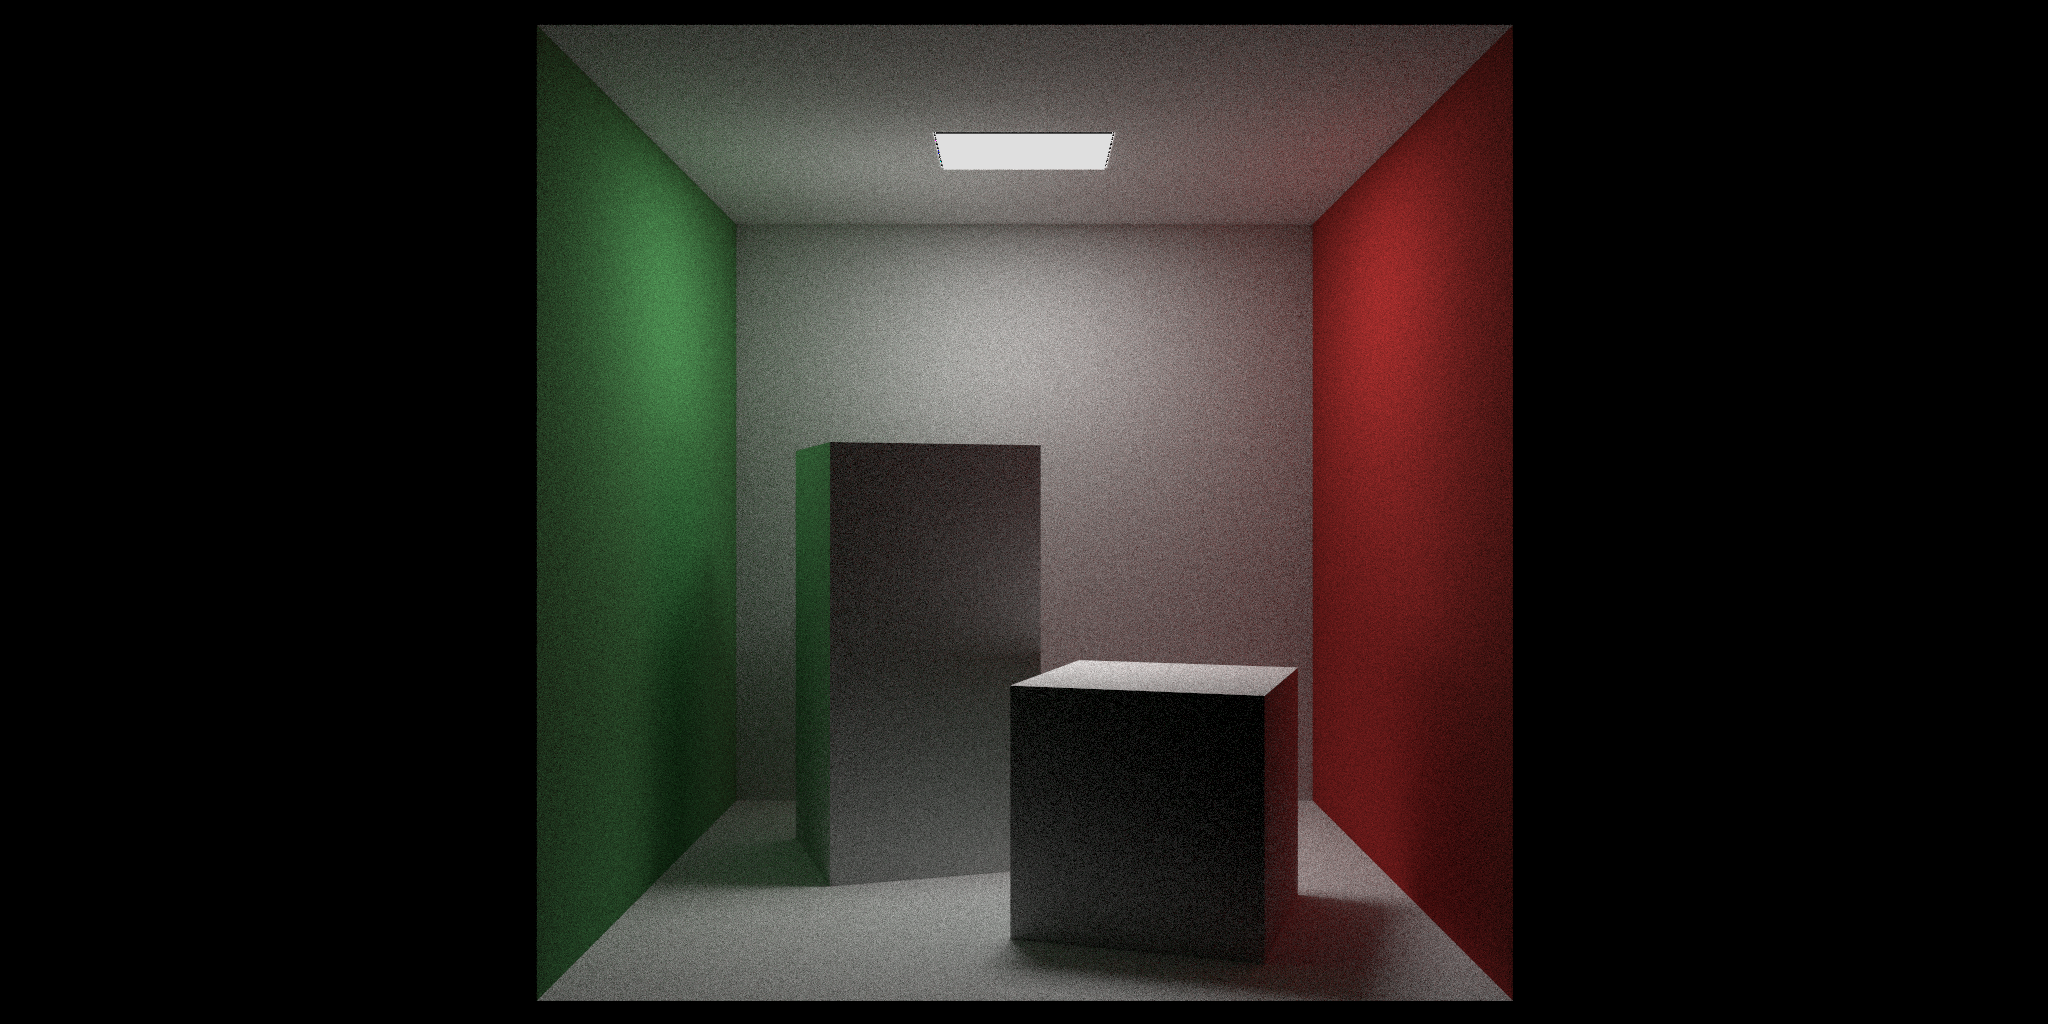
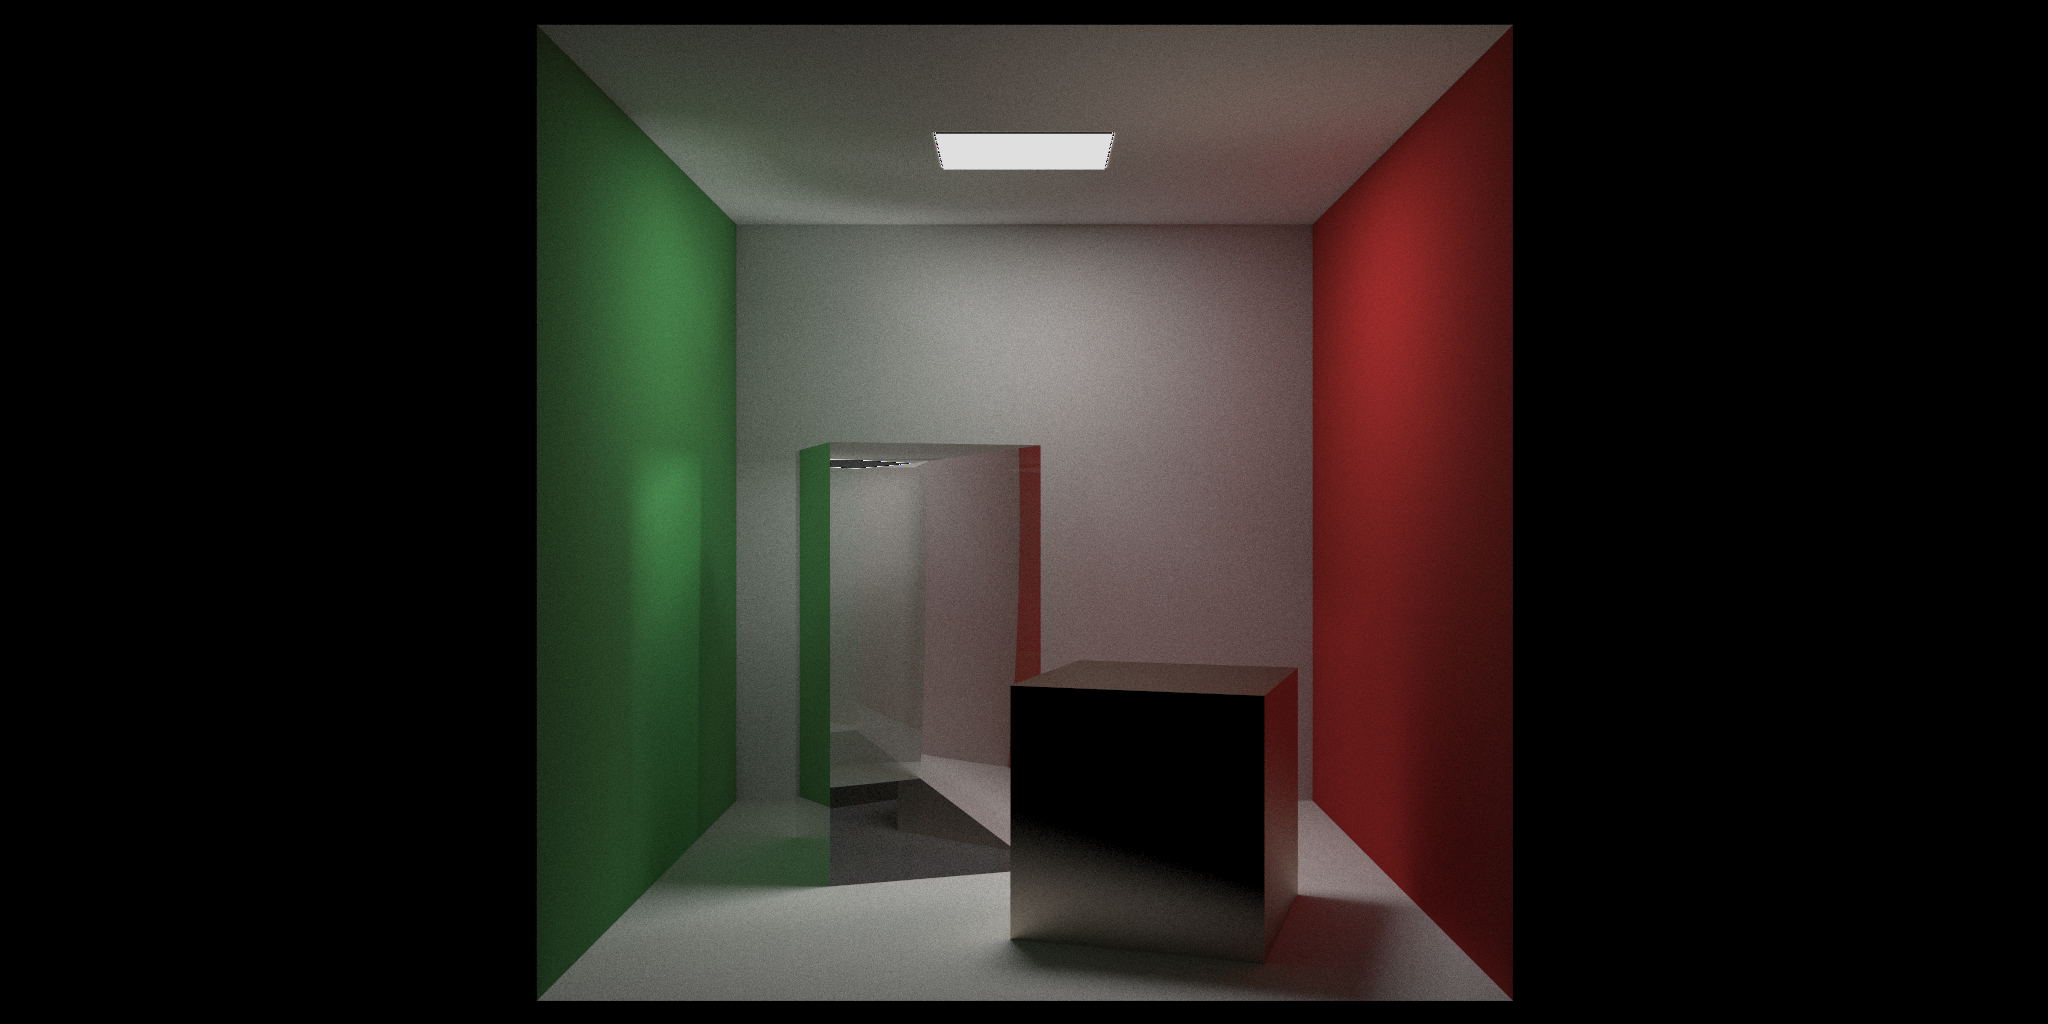
new image

Changed region(s): [[0.3125, 0.0312, 0.7188, 0.9375], [0.6875, 0.5, 0.7188, 0.5938], [0.3125, 0.3438, 0.3438, 0.375]]

diff --git a/cuda/scene.h b/cuda/scene.h
@@ -44,7 +44,7 @@ __device__ void random_scene(Hitable **list,
                                                     0.5f*rand(state)));
             }
             else {
-                list[i++] = new Sphere(center, 0.2, new Dielectric(1.5));
+                list[i++] = new Sphere(center, 0.2, new Dielectric(rand(state)*2));
             }
         }
     }
@@ -76,6 +76,9 @@ __device__ void cornell_box_scene(Hitable **list,
     Material* green = new   Lambertian(new ConstantTexture(vec3(0.12, 0.45, 0.15)));
     Material* light = new DiffuseLight(new ConstantTexture(vec3(  15,   15,   15)));
 
+    Material* diele = new Dielectric(0.5);
+    Material* metal = new Metal(vec3(0.7, 0.6, 0.5), 0.3);
+
     list[i++] = new FlipNormals(new RectangleYZ(  0, 555,   0, 555, 555, green));
     list[i++] =                (new RectangleYZ(  0, 555,   0, 555,   0,   red));
     list[i++] =                (new RectangleXZ(213, 343, 227, 332, 554, light));
@@ -83,36 +86,10 @@ __device__ void cornell_box_scene(Hitable **list,
     list[i++] =                (new RectangleXZ(  0, 555,   0, 555,   0, white));
     list[i++] = new FlipNormals(new RectangleXY(  0, 555,   0, 555, 555, white));
 
-    list[i++] = new Translate(new Rotate(new Box(vec3(0, 0, 0), vec3(165, 165, 165), white), -18), vec3(130, 0,  65));
-    list[i++] = new Translate(new Rotate(new Box(vec3(0, 0, 0), vec3(165, 330, 165), white),  18), vec3(265, 0, 295));
+    list[i++] = new Translate(new Rotate(new Box(vec3(0, 0, 0), vec3(165, 165, 165), metal), -18), vec3(130, 0,  65));
+    list[i++] = new Translate(new Rotate(new Box(vec3(0, 0, 0), vec3(165, 330, 165), diele),  18), vec3(265, 0, 295));
     
     *world = new HitableList(list, i);
-}
-
-
-__device__ void cornell_box_bvh_scene(Hitable **list, 
-                                      Hitable **world, 
-                                      curandState *state){
-    int i = 0;
-    Hitable** objlist = new Hitable*[10];
-
-    Material* red   = new   Lambertian(new ConstantTexture(vec3(0.65, 0.05, 0.05)));
-    Material* white = new   Lambertian(new ConstantTexture(vec3(0.73, 0.73, 0.73)));
-    Material* green = new   Lambertian(new ConstantTexture(vec3(0.12, 0.45, 0.15)));
-    Material* light = new DiffuseLight(new ConstantTexture(vec3(  15,   15,   15)));
-
-    objlist[i++] = new FlipNormals(new RectangleYZ(  0, 555,   0, 555, 555, green));
-    objlist[i++] =                (new RectangleYZ(  0, 555,   0, 555,   0,   red));
-    objlist[i++] =                (new RectangleXZ(213, 343, 227, 332, 554, light));
-    objlist[i++] = new FlipNormals(new RectangleXZ(  0, 555,   0, 555, 555, white));
-    objlist[i++] =                (new RectangleXZ(  0, 555,   0, 555,   0, white));
-    objlist[i++] = new FlipNormals(new RectangleXY(  0, 555,   0, 555, 555, white));
-
-    objlist[i++] = new Translate(new Rotate(new Box(vec3(0, 0, 0), vec3(165, 165, 165), white), -18), vec3(130, 0,  65));
-    objlist[i++] = new Translate(new Rotate(new Box(vec3(0, 0, 0), vec3(165, 330, 165), white),  18), vec3(265, 0, 295));
-    
-    list[0] = new BVHNode(objlist, i, 0, 1, state);
-    *world = new HitableList(list, 1);
 }
 
 
@@ -140,36 +117,10 @@ __device__ void cornell_smoke_scene(Hitable **list,
 }
 
 
-
-__device__ void boxlist_bvh_scene(Hitable **list, 
-                                  Hitable **world, 
-                                  curandState *state){
-    int nb = 20;
-    Hitable** boxlist = new Hitable*[1000];
-    Material* white   = new Lambertian(new ConstantTexture(vec3(0.73, 0.73, 0.73)));
-    Material* ground  = new Lambertian(new ConstantTexture(vec3(0.48, 0.83, 0.53)));
-    
-    int b = 0;
-    for(int i = 0; i < nb; i++) {
-        for(int j = 0; j < nb; j++) {
-            float w = 100;
-            float x0 = -1000 + i*w;
-            float z0 = -1000 + j*w;
-            float y0 = 0;
-            float x1 = x0 + w;
-            float y1 = 100 * (rand(state) + 0.01);
-            float z1 = z0 + w;
-            boxlist[b++] = new Box(vec3(x0, y0, z0), vec3(x1, y1, z1), ground);
-        }
-    }
-    list[0] = new BVHNode(boxlist, b, 0, 1, state);
-    *world = new HitableList(list, 1);
-}
-
-
 __device__ void final_scene(Hitable **list, 
                             Hitable **world, 
                             curandState *state){
+    // NOTE: does not work now
     int nb = 20;
     Hitable** boxlist1 = new Hitable*[1000];
     Hitable** boxlist2 = new Hitable*[1000];
